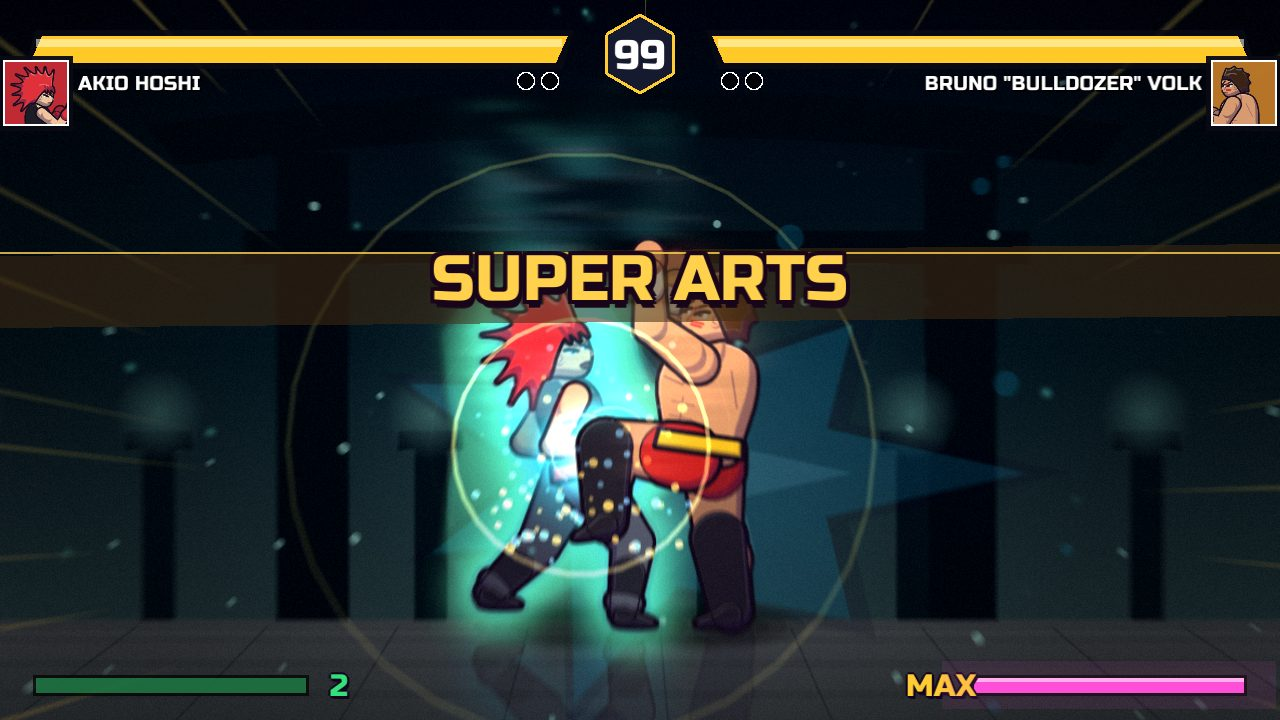
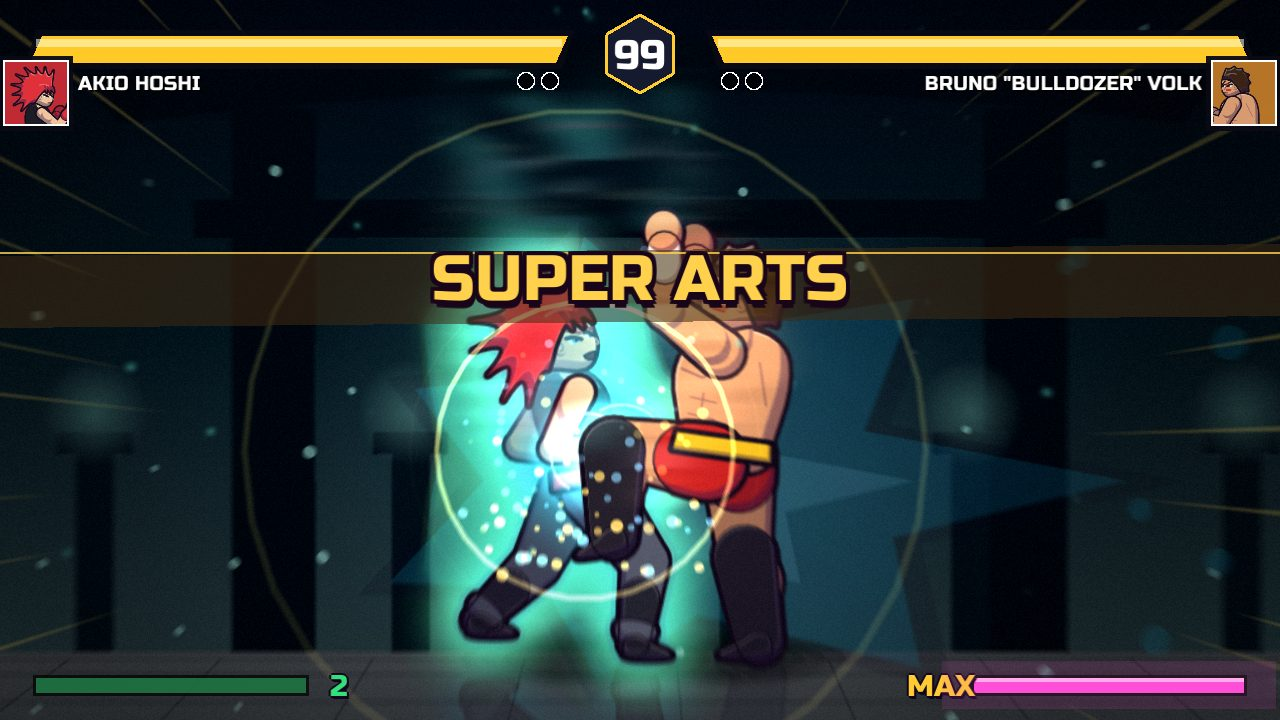
Cinematic super camera (DBFZ-style build-up/follow-through), drawn KO cross, hit-stop test, research round 5
Claude-Session: https://claude.ai/code/session_01Cn6JQNuQujDi45zt7ta1gL

diff --git a/src/vfx.rs b/src/vfx.rs
@@ -38,6 +38,8 @@ pub struct Vfx {
     pub trauma: f32, punch: f32, ko_t: f32, ko_focus: (f32, f32), pub slow_t: f32,
     chroma: f32, flash: f32, radial: f32, vig: f32, lines: f32, lines_col: [f32; 3], sat_pulse: f32,
     super_t: f32, super_owner: u32,
+    /// cinematic super camera 0..1 (eased in while the super pause runs, eased out afterwards: build-up + follow-through)
+    sz: f32, super_active: bool,
     /// sound requests produced by the effects layer (drained by the session)
     pub sfx: Vec<&'static str>,
     combo: [i32; 2], meter: [i32; 2],
@@ -49,7 +51,7 @@ fn lerp(a: f32, b: f32, t: f32) -> f32 { a + (b - a) * t }
 impl Vfx {
     pub fn new() -> Self {
         Vfx { splats: vec![], lights: vec![], weather: Weather::None, clock: 0.0, invert_t: 0.0, dist_zoom: 0.0, dist_target: 0.0, parts: vec![], rings: vec![], floats: vec![], banners: vec![], trauma: 0.0, punch: 0.0, ko_t: 0.0, ko_focus: (0.0, 0.0), slow_t: 0.0, chroma: 0.0, flash: 0.0, radial: 0.0, vig: 0.0, lines: 0.0,
-            lines_col: [1.0, 1.0, 1.0], sat_pulse: 0.0, super_t: 0.0, super_owner: 0, sfx: vec![], combo: [0; 2], meter: [0; 2], snap: vec![], pre_mt: vec![], rng: 0x9e37_79b9, tick: 0 }
+            lines_col: [1.0, 1.0, 1.0], sat_pulse: 0.0, super_t: 0.0, super_owner: 0, sz: 0.0, super_active: false, sfx: vec![], combo: [0; 2], meter: [0; 2], snap: vec![], pre_mt: vec![], rng: 0x9e37_79b9, tick: 0 }
     }
     fn r(&mut self) -> f32 { let mut x = self.rng; x ^= x << 13; x ^= x >> 17; x ^= x << 5; self.rng = x; x as f32 / 4294967296.0 }
     fn rr(&mut self, a: f32, b: f32) -> f32 { a + (b - a) * self.r() }
@@ -230,6 +232,7 @@ impl Vfx {
             if lv > self.meter[side] && m.round_state == 2 { self.sfx.push("meter"); }
             self.meter[side] = lv;
         }
+        self.super_active = m.pause.as_ref().is_some_and(|p| p.is_super);
         // super aura: rising energy motes while the super pause runs
         if let Some(p) = &m.pause { if p.is_super {
             if let Some((x, y, _)) = m.fighters.iter().find(|f| f.id == self.super_owner).map(Self::chest_of) {
@@ -257,6 +260,9 @@ impl Vfx {
         }
         self.parts.retain(|p| p.life > 0.0);
         self.clock += dt;
+        // DBFZ-style: slow ease-in to the close-up, even slower pull-back
+        let (target, rate) = if self.super_active { (1.0, 5.0) } else { (0.0, 2.2) };
+        self.sz += (target - self.sz) * (rate * dt).min(1.0);
         self.invert_t = (self.invert_t - dt).max(0.0);
         self.dist_zoom += (self.dist_target - self.dist_zoom) * (3.0 * dt).min(1.0);
         for sp in &mut self.splats { sp.t += dt; }
@@ -291,8 +297,9 @@ impl Vfx {
             if all.is_empty() { (m.camera.x, -35.0) } else { let n = all.len() as f32; (all.iter().map(|f| f.pos.x).sum::<f32>() / n, all.iter().map(|f| f.pos.y).sum::<f32>() / n - 35.0) }
         };
         let ko = if self.ko_t > 0.0 { let e = (self.ko_t.min(1.0)).powf(0.6); e * 0.28 } else { 0.0 };
-        let sup = self.super_t * 0.07;
+        let sup = self.sz * self.sz * (3.0 - 2.0 * self.sz) * 0.2;
         let z = 1.0 + (self.punch + ko + sup + self.dist_zoom) * gain;
+        let mid = if self.sz > 0.01 { match m.fighters.iter().find(|f| f.id == self.super_owner).map(Self::chest_of) { Some((x, y, _)) => (lerp(mid.0, x, self.sz), lerp(mid.1, y, self.sz)), None => mid } } else { mid };
         let focus = if self.ko_t > 0.0 { let e = self.ko_t.min(1.0); (lerp(mid.0, self.ko_focus.0, e), lerp(mid.1, self.ko_focus.1, e)) } else { mid };
         (z, focus)
     }

diff --git a/src/hud.rs b/src/hud.rs
@@ -105,7 +105,9 @@ impl Hud {
                 portrait(g, f, c, tw / 2.0 * s, side, s, if mine { hex("#ffcc33") } else if f.alive { Color::new(1.0, 1.0, 1.0, 0.75) } else { Color::new(1.0, 1.0, 1.0, 0.25) });
                 if !f.alive {
                     draw_rectangle(c.x - tw / 2.0 * s, c.y - tw / 2.0 * s, tw * s, tw * s, Color::new(0.0, 0.0, 0.05, 0.62));
-                    text("✕", tx + tw / 2.0, ty + tw / 2.0 + 3.5, 11.0, Color::new(1.0, 0.3, 0.3, 0.9), Align::Center, true);
+                    let r = tw * 0.28 * s;
+                    draw_line(c.x - r, c.y - r, c.x + r, c.y + r, 2.0 * s, Color::new(1.0, 0.3, 0.3, 0.95));
+                    draw_line(c.x - r, c.y + r, c.x + r, c.y - r, 2.0 * s, Color::new(1.0, 0.3, 0.3, 0.95));
                 }
                 // life bar under the tile
                 let by = ty + tw + 1.5;
@@ -132,7 +134,7 @@ impl Hud {
                         let col = if ko { Color::from_rgba(70, 70, 80, 255) } else { Color::from_rgba(col[0], col[1], col[2], 255) };
                         draw_circle(c.x, c.y, (if cur { 7.2 } else { 5.6 }) * s, col);
                         draw_circle_lines(c.x, c.y, (if cur { 7.2 } else { 5.6 }) * s, (if cur { 1.4 } else { 0.7 }) * s, if cur { hex("#ffcc33") } else { Color::new(1.0, 1.0, 1.0, 0.6) });
-                        text(if ko { "✕" } else { name.chars().next().map(|_| &name[..name.chars().next().unwrap().len_utf8()]).unwrap_or("?") }, x + 6.5, 47.9, if cur { 7.0 } else { 5.5 }, WHITE, Align::Center, true);
+                        if ko { let r = 3.2 * s; draw_line(c.x - r, c.y - r, c.x + r, c.y + r, 1.6 * s, Color::new(1.0, 0.3, 0.3, 0.95)); draw_line(c.x - r, c.y + r, c.x + r, c.y - r, 1.6 * s, Color::new(1.0, 0.3, 0.3, 0.95)); } else { text(name.chars().next().map(|_| &name[..name.chars().next().unwrap().len_utf8()]).unwrap_or("?"), x + 6.5, 47.9, if cur { 7.0 } else { 5.5 }, WHITE, Align::Center, true); }
                     }
                 }
             }

diff --git a/crates/engine/src/native/compile.rs b/crates/engine/src/native/compile.rs
@@ -238,3 +238,17 @@ pub fn compile_native_with(nc: &NativeChar, pal_no: i32, with_images: bool, only
     let _ = Arc::new(());
     d
 }
+
+#[cfg(test)]
+mod tests {
+    use super::*;
+    /// Light/medium/heavy hit-stop follows the genre norm (~9/11/13 frames across games; SF V uses 8/12/15):
+    /// heavier hits must freeze longer and the values stay in the researched band.
+    #[test]
+    fn hitstop_scales_with_attack_strength() {
+        let (l, m, h) = (level(Some("light")), level(Some("medium")), level(Some("heavy")));
+        assert!(l.stop < m.stop && m.stop < h.stop);
+        assert_eq!((l.stop, m.stop, h.stop), (9, 11, 13));
+        assert!(l.stun < m.stun && m.stun < h.stun, "hit-stun also scales");
+    }
+}

diff --git a/docs/AAA_FEATURES.md b/docs/AAA_FEATURES.md
@@ -84,3 +84,14 @@ Assistências estilo Kameo (botão de chamar parceiro com recarga), troca de per
 - **HUD v2**: barra principal acompanha o lutador que você controla (lado inimigo: o da linha de frente); *tiles* de retrato com barra de vida para cada companheiro (o seu em dourado, caídos escurecidos com ✕); contadores vivos/total ao lado do timer; dica `TAB · TROCAR DE LUTADOR`.
 - **Na arena** (mais de 2 lutadores): barra de vida flutuante sobre cada lutador e marcador ▼ saltitante sobre o seu.
 - Fontes com filtro linear (texto escalado deixou de ficar serrilhado) e *slam* de banner mais suave.
+
+---
+
+# Rodada 5 — pesquisa complementar (câmera de super e hit-stop)
+
+Fontes (resumos de busca; as páginas primárias de Capcom/Epic/GDC não resolvem na rede da sessão):
+- **Dragon Ball FighterZ** — [Famitsu via DBZGames](https://www.dbzgames.org/news/dragon-ball-fighterz-arcsys-director-and-game-producer-talk-about-technical-aspects/), [PC Gamer](https://pcgamer.com/uk/dragon-ball-fighterz-review), [ComicBook.com](https://comicbook.com/gaming/2018/02/12/dragon-ball-fighterz-video-without-cinematic-effects), [Kotaku sobre a palestra GDC](https://kotaku.com/breaking-down-the-animation-of-guilty-gear-and-dragonba-1836849279): o diretor Motomura explica que a **câmera se move durante certos supers** para o 3D "ficar bonito"; os supers têm **build-up e follow-through** e a *transição* entre a câmera de jogo e o close é o que vende o efeito (um vídeo sem os cinematics mostrou isso). → **câmera de super cinematográfica**: zoom que entra devagar até o lutador que ativa (até +20 %), segura durante a pausa e sai ainda mais devagar (`Vfx::sz`, ease-in 5/s, ease-out 2,2/s).
+- **Hit-stop** — [Sonic Hurricane](https://sonichurricane.com/?p=1043), [GameFAQs (SF V)](https://gamefaqs.gamespot.com/boards/895976-street-fighter-v/74812570?page=2), [Shoryuken](http://shoryuken.com/2016/06/07/hitstop-in-street-fighter-v-kens-not-so-little-secret/), [SmashWiki](https://www.ssbwiki.com/Hitlag): SF V trava **8/12/15 frames** (leve/médio/pesado); média entre jogos **≈ 9/11/13**; no Smash o hitlag cresce com o dano. O motor já usa **9/11/13** nos golpes nativos — agora travado por teste (`hitstop_scales_with_attack_strength`).
+- **Game feel**: manter feedback separado da lógica e oferecer opção de reduzir efeitos (já em *Vídeo → Efeitos de impacto*).
+
+Correção visual desta rodada: o glifo "✕" não existe na fonte de exibição; caídos agora são marcados com uma cruz desenhada.
